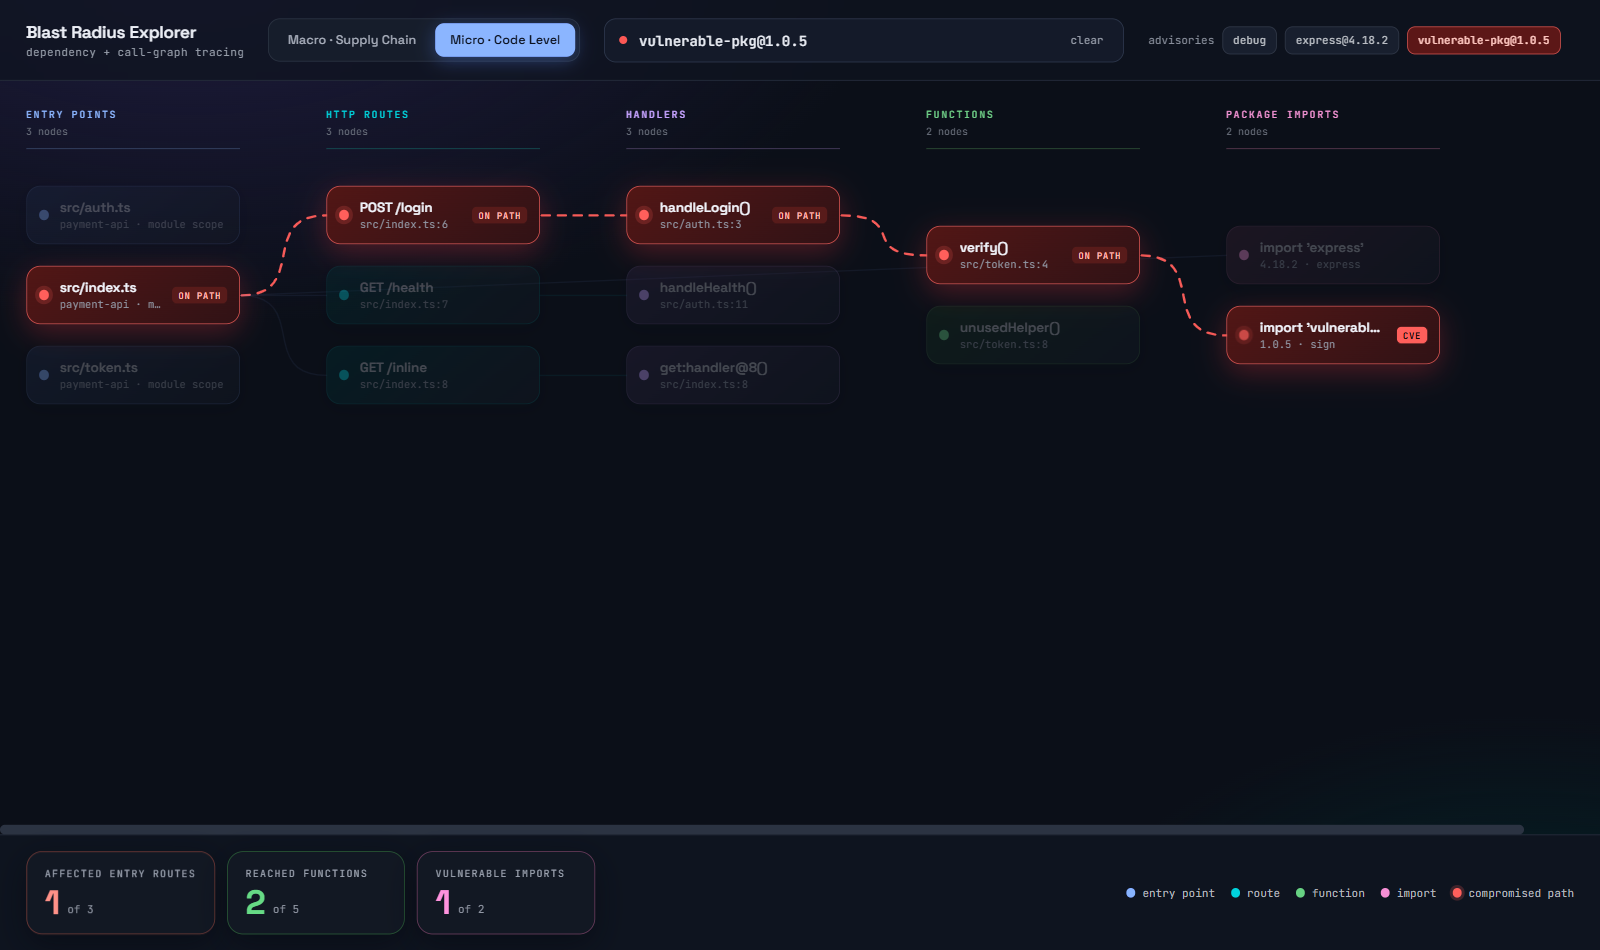
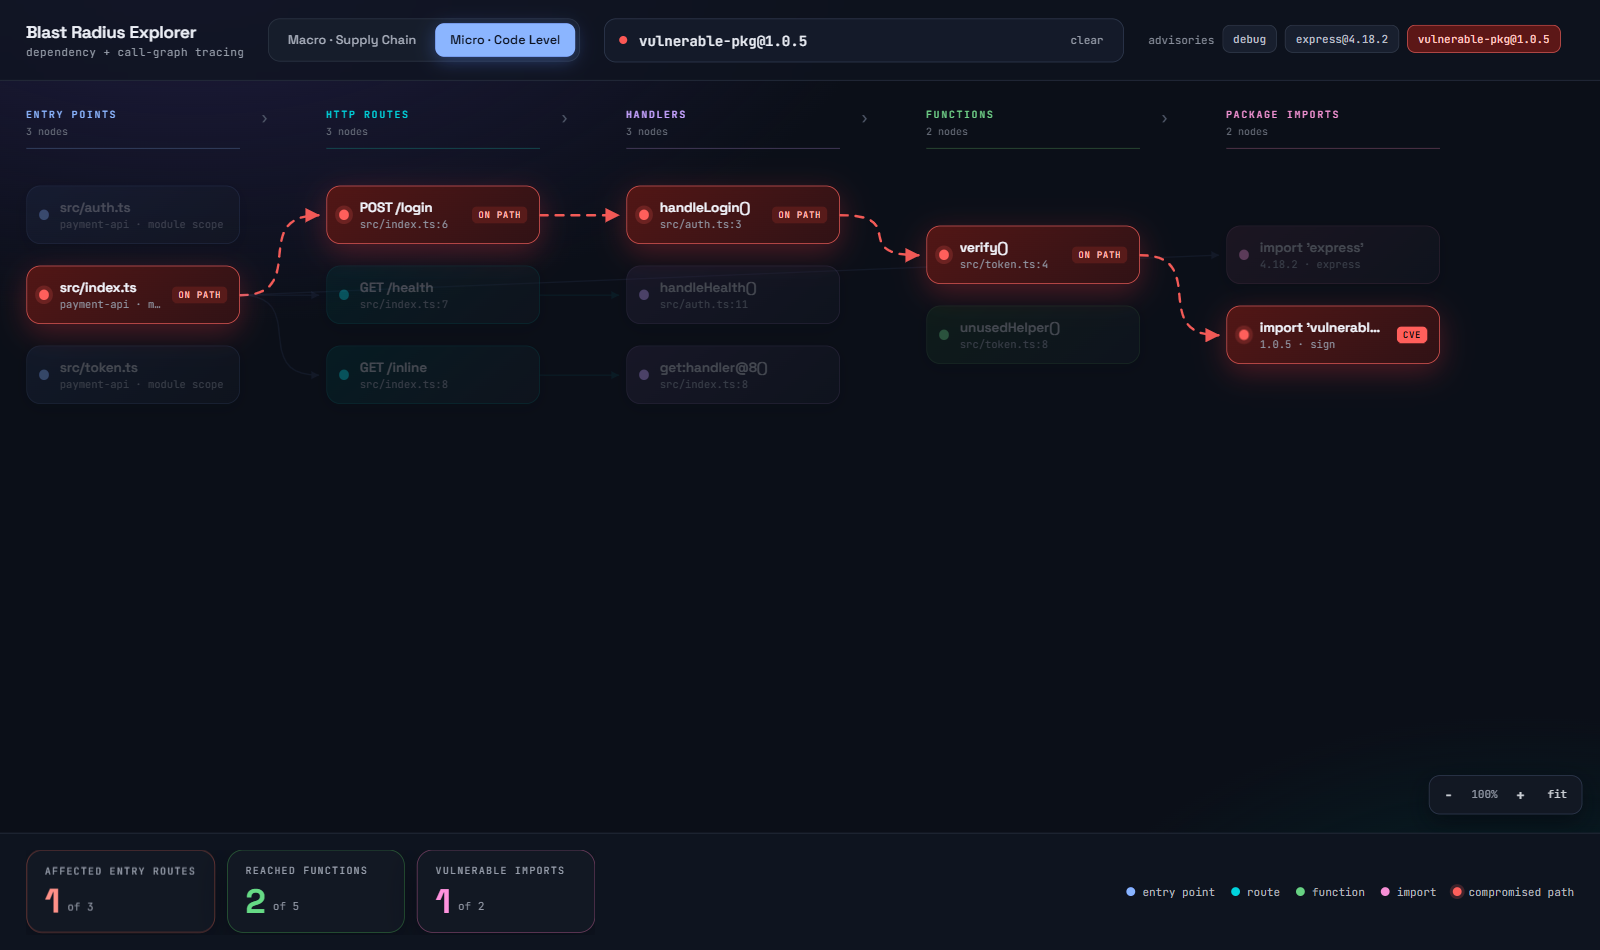
Make the Explorer responsive and the graph directional
Direction: edges get arrowheads and the column gutters get chevrons, so which
way the graph reads is stated rather than left to be inferred from a left-to-
right column layout. The reachability path in the detail panel gets down-arrows
between steps so it reads as a chain, not a list. Curves now stop 8px short of
the target card so the arrowhead lands in the gutter instead of under it.

An SVG marker cannot portably inherit its path's stroke colour, so one marker
is emitted per distinct stroke and referenced by index.

Responsive: three breakpoints. At 1180px the legend goes (the column headers
already carry those colours, so it is duplication before it is data). At 900px
the 392px drawer would leave no graph on a 760px screen, so it becomes a
dismissible bottom sheet. At 620px tabs and search each take a full row and the
chips scroll sideways. Metrics scroll rather than wrap throughout.

Adds a zoom/fit control, which is what makes the small breakpoints usable at
all -- a five-column graph is 1414px wide and will not shrink on its own. Fit
only ever shrinks; scaling a four-node graph up to fill a wide monitor would
imply more here than there is. Touching the control hands over manual zoom so
the resize handler stops re-fitting underneath you.

Panel dismiss button now says "close" rather than "esc": there is no Esc key on
a phone, though the shortcut still works.

Verified in a browser at 1600px and 430px.

diff --git a/ui/static/index.html b/ui/static/index.html
@@ -125,6 +125,63 @@
   .notice { margin:40px auto; max-width:560px; padding:22px 24px; border-radius:14px; background:oklch(0.22 0.03 265); border:1px solid oklch(0.36 0.04 265); font:400 13px 'JetBrains Mono',monospace; line-height:1.7; color:oklch(0.86 0.01 265); }
   .notice b { color:oklch(0.95 0.01 265); font-weight:600; }
   .notice code { color:oklch(0.82 0.14 200); }
+
+  #zoom {
+    position:absolute; right:18px; bottom:18px; z-index:15; display:flex; align-items:center; gap:2px;
+    padding:4px; border-radius:11px; background:oklch(0.21 0.025 265 / 0.92);
+    border:1px solid oklch(0.34 0.04 265); backdrop-filter:blur(10px);
+    box-shadow:0 8px 24px oklch(0.12 0.02 265 / 0.55);
+  }
+  #zoom button { cursor:pointer; border:0; background:transparent; color:oklch(0.85 0.01 265);
+    font:600 14px 'JetBrains Mono',monospace; width:30px; height:30px; border-radius:8px; }
+  #zoom button:hover { background:oklch(0.3 0.03 265); }
+  #zoom .fit { width:auto; padding:0 10px; font:500 11px 'JetBrains Mono',monospace; }
+  #zoom .pct { font:500 11px 'JetBrains Mono',monospace; color:oklch(0.68 0.02 265); min-width:38px; text-align:center; }
+
+  @media (prefers-reduced-motion: reduce) { * { animation:none !important; transition:none !important; } }
+  @keyframes sheetIn { from { opacity:0; transform:translateY(24px); } to { opacity:1; transform:none; } }
+
+  /* Laptop: the legend goes first -- the node colours already repeat in the
+     column headers, so it is duplication before it is data. */
+  @media (max-width: 1180px) {
+    header { gap:16px; padding:14px 18px; }
+    .legend { display:none; }
+    footer { padding:12px 18px; }
+  }
+
+  /* Tablet: a 392px drawer on a 760px screen leaves no graph, so the detail
+     panel becomes a bottom sheet instead of eating the canvas. */
+  @media (max-width: 900px) {
+    .brand-sub { display:none; }
+    #scroll { padding:16px; }
+    .metric { min-width:132px; padding:10px 13px; }
+    .metric .v { font-size:26px; }
+    #panel {
+      top:auto; left:0; right:0; bottom:0; width:auto; max-height:62%;
+      border-left:0; border-top:1px solid oklch(0.33 0.04 265);
+      border-radius:16px 16px 0 0; box-shadow:0 -24px 60px oklch(0.12 0.02 265 / 0.7);
+      animation:sheetIn 0.24s ease-out;
+    }
+    #panel .head { padding:16px 18px 12px; }
+    #panel .body { padding:14px 18px 22px; }
+    #zoom { right:12px; bottom:12px; }
+  }
+
+  /* Phone: tabs and search each take a full row; chips scroll sideways. */
+  @media (max-width: 620px) {
+    header { gap:12px; padding:12px 14px; }
+    .brand { font-size:15px; }
+    .tabs { width:100%; }
+    .tab { flex:1; text-align:center; padding:9px 8px; font-size:12px; }
+    .search { flex:1 1 100%; max-width:none; height:40px; }
+    .chips { width:100%; }
+    .chips-label { display:none; }
+    footer { padding:10px 14px; gap:12px; }
+    .metric { min-width:118px; padding:9px 11px; }
+    .metric .v { font-size:22px; }
+    .metric .l { font-size:9px; letter-spacing:0.08em; }
+    #zoom .fit { display:none; }
+  }
 </style>
 </head>
 <body>
@@ -188,13 +245,16 @@ const HOT = 'oklch(0.7 0.2 25)';
 const col = (h, l, c) => `oklch(${l} ${c} ${h})`;
 
 const NW = 214, NH = 58, COLW = 300, ROWG = 22, TOP = 68;
+const MIN_ZOOM = 0.3, MAX_ZOOM = 1.6;
 
 const state = {
   mode: 'macro',
   query: '',
   selected: null,
   graphs: { macro: null, micro: null },
-  advisories: []
+  advisories: [],
+  zoom: 1,
+  autoFit: true   // stays true until the user touches the zoom control
 };
 
 const $ = (id) => document.getElementById(id);
@@ -220,7 +280,8 @@ function layout(g) {
     // view with an empty column still lines up with its header.
     list.forEach((n, i) => { pos[n.id] = { x: l * COLW, y: start + i * (NH + ROWG) }; });
   });
-  return { pos, H, W: (Math.max(...layers) + 1) * COLW + NW - COLW + NW, layers, byLayer };
+  const W = Math.max(...layers) * COLW + NW;
+  return { pos, H, W, layers, byLayer };
 }
 
 /* ------------------------------------------------------------------ */
@@ -252,6 +313,28 @@ function hotSet(g, query) {
   return { hot, seeds: new Set(matched.map((n) => n.id)) };
 }
 
+function applyZoom(W, H) {
+  const z = state.zoom;
+  $('canvas').style.transform = `scale(${z})`;
+  $('sizer').style.width = (W * z) + 'px';
+  $('sizer').style.height = (H * z) + 'px';
+  $('zoomPct').textContent = Math.round(z * 100) + '%';
+}
+
+function fitZoom(W) {
+  const avail = $('scroll').clientWidth - 32;
+  if (avail <= 0 || !W) return 1;
+  // Only ever shrink to fit. Blowing a four-node graph up to fill a wide
+  // monitor makes it look like there is more here than there is.
+  return Math.max(MIN_ZOOM, Math.min(1, avail / W));
+}
+
+function setZoom(z, manual) {
+  state.zoom = Math.max(MIN_ZOOM, Math.min(MAX_ZOOM, z));
+  if (manual) state.autoFit = false;
+  render();
+}
+
 /* ------------------------------------------------------------------ */
 /* render                                                              */
 /* ------------------------------------------------------------------ */
@@ -260,7 +343,8 @@ function render() {
   const canvas = $('canvas');
   if (!g) { canvas.innerHTML = ''; return; }
   if (!g.nodes.length) {
-    canvas.style.width = 'auto'; canvas.style.height = 'auto';
+    $('sizer').style.width = 'auto'; $('sizer').style.height = 'auto';
+    canvas.style.transform = 'none';
     canvas.innerHTML = '<div class="notice">The graph is empty for this view.<br><br>' +
       'Run <code>python -m blastradius.cli ingest</code> to scan the corpus, then reload.</div>';
     paintFooter(g, null, []);
@@ -268,6 +352,8 @@ function render() {
   }
 
   const { pos, H, W, layers, byLayer } = layout(g);
+  if (state.autoFit) state.zoom = fitZoom(W);
+
   const found = hotSet(g, state.query);
   const hot = found ? found.hot : null;
   const seedIds = found ? found.seeds : new Set();
@@ -278,30 +364,48 @@ function render() {
 
   let html = '';
 
-  layers.forEach((l) => {
+  layers.forEach((l, i) => {
     const kind = byLayer[l][0].kind;
     const accent = col(KIND[kind].hue, 0.78, 0.14);
     html += `<div class="colhead" style="left:${l * COLW}px;top:0;width:${NW}px;border-bottom:1px solid ${col(KIND[kind].hue, 0.4, 0.06)}">
       <div class="t" style="color:${accent}">${esc(g.cols[l] || '')}</div>
       <div class="c">${byLayer[l].length} nodes</div></div>`;
+    // The graph reads left to right; a column layout with no arrows does not
+    // say so on its own.
+    if (i < layers.length - 1) {
+      html += `<div class="flowmark" style="left:${l * COLW + NW + 20}px;top:1px">&rsaquo;</div>`;
+    }
   });
 
-  let wires = '';
+  // An arrowhead per stroke colour: a marker cannot portably inherit the
+  // path's stroke, so they are emitted per colour and referenced by index.
+  const markerFor = new Map();
   const hotEdges = [];
+  let wires = '';
+
   g.edges.forEach(([a, b]) => {
     const s = pos[a], t = pos[b];
     if (!s || !t) return;
-    const x1 = s.x + NW, y1 = s.y + NH / 2, x2 = t.x, y2 = t.y + NH / 2;
     const isHot = hot && hot.has(a) && hot.has(b);
     const dim = hot && !isHot;
     if (isHot) hotEdges.push([a, b]);
     const stroke = isHot ? HOT : col(KIND[nodeById[a].kind].hue, 0.72, 0.13);
+    if (!markerFor.has(stroke)) markerFor.set(stroke, 'm' + markerFor.size);
+    const x1 = s.x + NW, y1 = s.y + NH / 2, y2 = t.y + NH / 2;
+    // Stop short of the card so the arrowhead lands in the gutter, not under it.
+    const x2 = t.x - 8;
     wires += `<path d="M ${x1} ${y1} C ${x1 + 70} ${y1}, ${x2 - 70} ${y2}, ${x2} ${y2}"
       fill="none" stroke="${stroke}" stroke-width="${isHot ? 2.4 : 1.3}" stroke-linecap="round"
-      stroke-dasharray="${isHot ? '8 8' : '0'}"
-      style="opacity:${isHot ? 0.95 : dim ? 0.07 : 0.3};animation:${isHot ? 'dashflow 0.75s linear infinite' : 'none'};transition:opacity 0.25s"></path>`;
+      stroke-dasharray="${isHot ? '8 8' : '0'}" marker-end="url(#${markerFor.get(stroke)})"
+      style="opacity:${isHot ? 0.95 : dim ? 0.07 : 0.34};animation:${isHot ? 'dashflow 0.75s linear infinite' : 'none'};transition:opacity 0.25s"></path>`;
   });
-  html += `<svg id="wires" width="${W}" height="${H}">${wires}</svg>`;
+
+  let defs = '';
+  markerFor.forEach((id, stroke) => {
+    defs += `<marker id="${id}" viewBox="0 0 10 10" refX="9" refY="5" markerWidth="6" markerHeight="6"
+      orient="auto-start-reverse"><path d="M 0 0 L 10 5 L 0 10 z" fill="${stroke}"></path></marker>`;
+  });
+  html += `<svg id="wires" width="${W}" height="${H}"><defs>${defs}</defs>${wires}</svg>`;
 
   g.nodes.forEach((n) => {
     const k = KIND[n.kind], p = pos[n.id];
@@ -337,6 +441,7 @@ function render() {
     el.onclick = () => { state.selected = el.dataset.id; render(); };
   });
 
+  applyZoom(W, H);
   paintPanel(g, nodeById, hot, seedIds);
   paintFooter(g, hot, hotEdges);
 }
@@ -399,7 +504,7 @@ function paintPanel(g, nodeById, hot, seedIds) {
         <div class="title">${esc(sn.label)}</div>
         <div class="kind">${esc(k.label)}${sn.version ? ' · ' + esc(sn.version) : ''}</div>
       </div>
-      <div class="esc" id="closePanel">esc</div>
+      <div class="esc" id="closePanel">close</div>
     </div>
     <div class="body">
       <div style="padding:11px 13px;border-radius:11px;font:500 12px 'JetBrains Mono',monospace;line-height:1.5;
@@ -415,7 +520,8 @@ function paintPanel(g, nodeById, hot, seedIds) {
       <div style="display:flex;flex-direction:column;gap:9px">
         <div class="sec-title">${isHot ? 'REACHABILITY PATH' : (state.mode === 'macro' ? 'DEPENDENCY DETAIL' : 'CALL STACK')}</div>
         ${chain.length
-          ? chain.map((s) => `<div class="stack-row" style="border-left:2px solid ${s.color}">
+          ? chain.map((s, i) => `${i ? '<div class="chain-arrow">&darr;</div>' : ''}
+            <div class="stack-row" style="border-left:2px solid ${s.color}">
               <span class="i">${esc(s.idx)}</span>
               <div style="min-width:0"><div class="n">${esc(s.name)}</div><div class="l">${esc(s.loc)}</div></div>
             </div>`).join('')
@@ -469,7 +575,8 @@ async function loadGraph(mode) {
   const r = await fetch('/api/graph?mode=' + mode);
   if (!r.ok) {
     const e = await r.json().catch(() => ({ detail: r.statusText }));
-    $('canvas').style.width = 'auto'; $('canvas').style.height = 'auto';
+    $('sizer').style.width = 'auto'; $('sizer').style.height = 'auto';
+    $('canvas').style.transform = 'none';
     $('canvas').innerHTML = `<div class="notice"><b>Cannot reach the graph.</b><br><br>${esc(e.detail || r.statusText)}</div>`;
     return;
   }
@@ -520,6 +627,7 @@ function syncChips() {
 async function setMode(mode) {
   state.mode = mode;
   state.selected = null;
+  state.autoFit = true;   // the two views are different widths
   document.querySelectorAll('.tab').forEach((t) => t.classList.toggle('on', t.dataset.mode === mode));
   await loadGraph(mode);
   render();
@@ -528,6 +636,18 @@ async function setMode(mode) {
 document.querySelectorAll('.tab').forEach((t) => { t.onclick = () => setMode(t.dataset.mode); });
 $('q').oninput = (e) => { state.query = e.target.value; syncChips(); render(); };
 $('clear').onclick = () => { state.query = ''; $('q').value = ''; syncChips(); render(); };
+$('zoomIn').onclick = () => setZoom(state.zoom + 0.15, true);
+$('zoomOut').onclick = () => setZoom(state.zoom - 0.15, true);
+$('zoomFit').onclick = () => { state.autoFit = true; render(); };
+
+let resizeTimer = null;
+addEventListener('resize', () => {
+  clearTimeout(resizeTimer);
+  // Re-fit on rotate or window drag, but only while the user has not taken
+  // manual control of the zoom.
+  resizeTimer = setTimeout(() => { if (state.autoFit) render(); }, 150);
+});
+
 document.addEventListener('keydown', (e) => {
   if (e.key === 'Escape' && state.selected) { state.selected = null; render(); }
 });

diff --git a/README.md b/README.md
@@ -105,9 +105,22 @@ Note what is *dimmed* there: `GET /health`, `unusedHelper()`, `import 'express'`
 That is the "safe to ignore" signal, and it is the half of an incident response
 that actually saves time.
 
+Edges carry arrowheads and the column gutters carry chevrons, so the direction
+the graph reads is stated rather than implied. On the hot path the dashes flow
+along the arrow.
+
 Clicking any node opens metadata and the reachability path:
 
 ![Detail panel](docs/screens/detail-panel.png)
+
+It is responsive down to phone width: the graph auto-fits (shrink only — a
+four-node graph blown up to fill a monitor implies more than is there), the
+detail drawer becomes a bottom sheet, chips and metrics scroll sideways, and
+the legend drops since the column headers already carry the colours. A
+zoom/fit control sits bottom-right; touching it hands you manual control and
+stops the auto-fit from fighting you on resize.
+
+![Phone width](docs/screens/mobile.png)
 
 The whole graph is sent to the browser once per view and the blast radius is a
 reverse BFS in JS, so typing in the search box costs no round trips. That only
